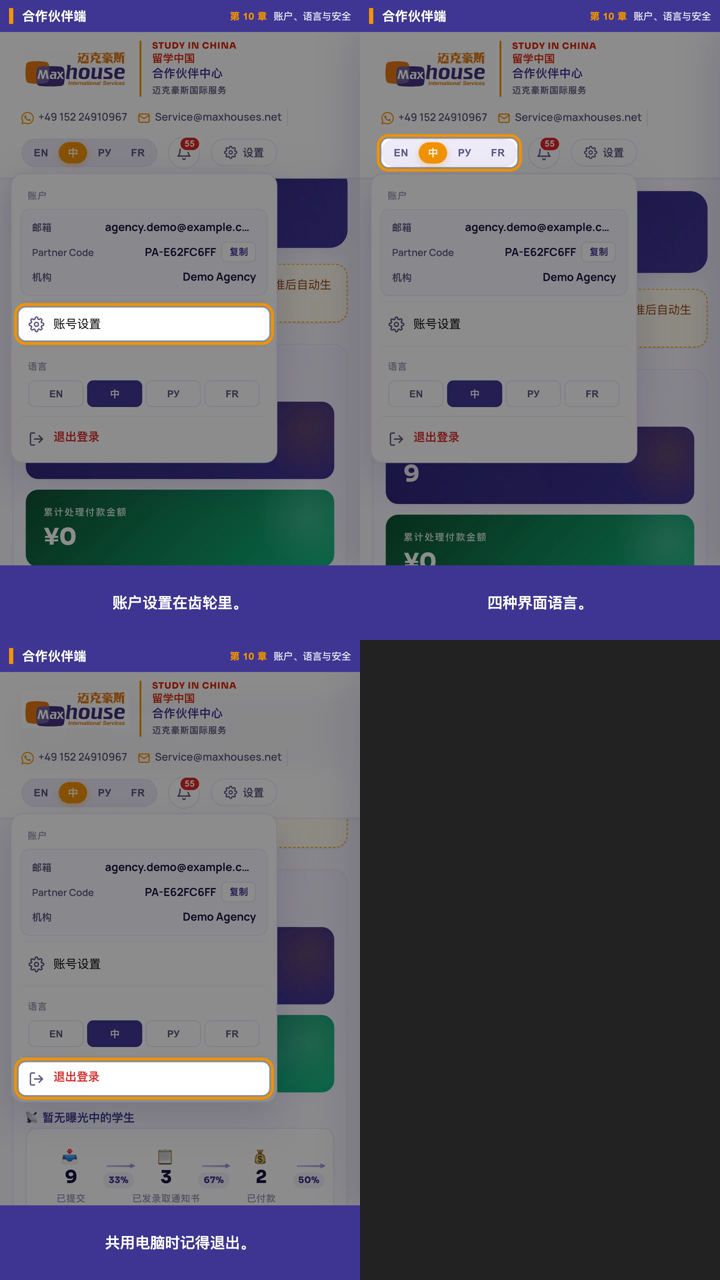
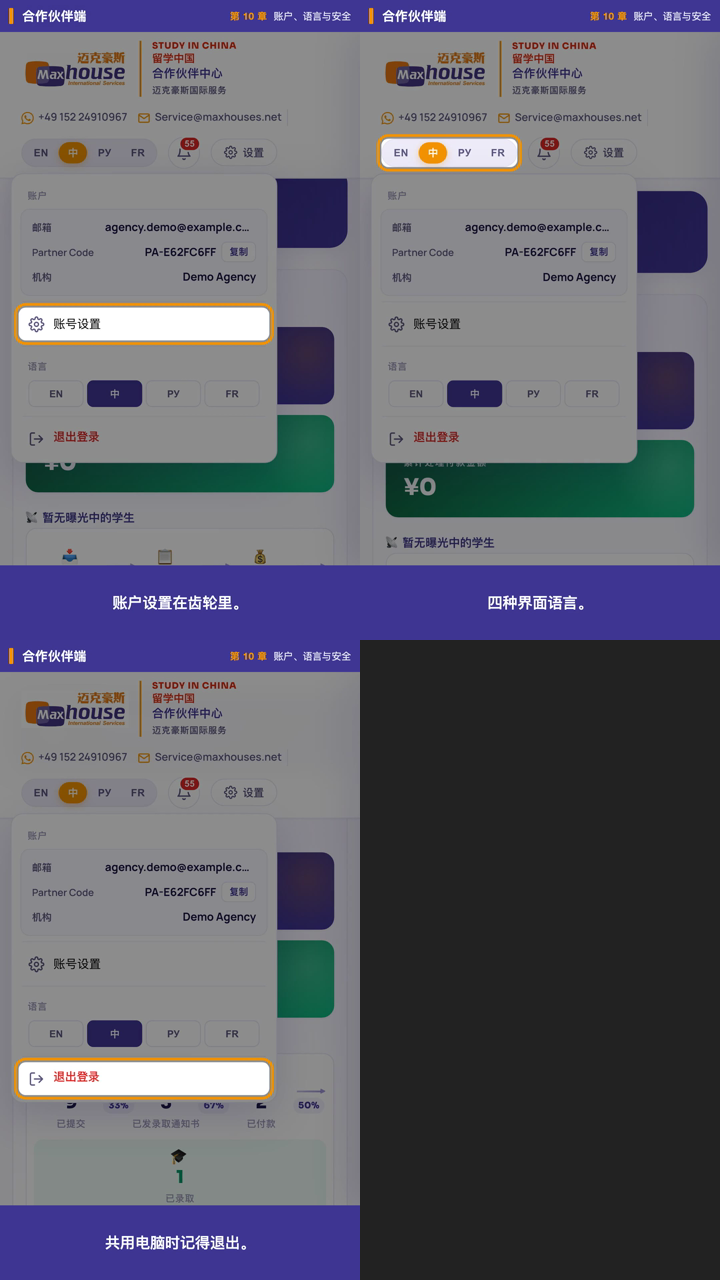
JOB-GP1 trip48: ch10 设置/语言/账户章（读-only）四语横竖 v185 定版重录——十章全部重录收尾。联络表 8 张（四语横竖）+ 4 REVIEW-shots 追加 ch10 节 + decisions D-48-1 + PROGRESS。开工+收工 verify 17/17 PASS；§四.5 scan ALL CLEAN；md5 dist vs _v2 全差异（真重录）。下趟＝OP-2~5 重做+四语全片/速览重拼+十一项重审。

diff --git a/JOB-GP1-03-PROGRESS.md b/JOB-GP1-03-PROGRESS.md
@@ -1,4 +1,6 @@
-最后一趟：2026-10-14 第47趟 第三轮返工（RULING-20261013b-video-only）：**做了＝第〇节代码核验（partner-portal 与线上一致·无 v186·diff 空·index 指 v185）+ ch9（增值服务章·读-only·零 DB 写）四语横竖 v185 定版重录，落 §三.10+§三.7+§一+§三.9**。ch9 字幕四语不改（review1/review2 未标 ch9 缺陷·§三.10 仅要求 v185 重录一次）。读-only：CONTEXT['9'] 把首张推荐生列表卡 `.partner-premium-block` 滚到视口中心（D-23-1 实证在列表卡非弹窗），逐镜高亮 9-1 增值服务标题/9-2 Audit ¥1,500 行/9-3 人工搜索 ¥600 行/9-4 付费曝光 从¥4,500 起行，全程零点击零写库。§三.7：照 ch6 读-only 先例，录前 st-ch8-quota-off 去「Quota raise pending 10→30」横幅、录后 st-ch8-quota-restore（verify#13 回 pending）；一次 off→录全 8 变体→一次 restore。§一：每张卡「Invested/该学生已投入/Вложено/Investi pour cet étudiant ¥0」无负数（亲帧 EN f30/zh f75/ru f30/fr f165），服务价 ¥1,500/¥600/¥4,500 均正数。§三.9：ru Центр партнёров/fr Espace partenaires（trip38 继承·成片帧亲验）。§四.4 N/A（程序扫 ch9 四语 captions 引号 0 命中·全描述性散文）。9-4 shot forbid 满足（四语无「优先审核」字样·亲帧 f165）。D-18-4：9-1/9-2/9-3 premium 动态串 ru/fr 英文回退照录不补·9-4 boost 行 ru/fr 本地化（fr「Boost de visibilité · inactif / Activer · dès ¥4,500」）·zh 全本地化。新建 rec/_runch9.sh/_prodch9.sh/_scan-ch9-forbidden.mjs。md5 比对 dist vs _v2 全差异（真重录）。开工+收工 verify 均 **17/17 PASS 0 FAIL**。§四.5 scan 四语×横竖 **ALL CLEAN**（beta/test/负数/真邮箱 0 命中）。亲帧+四语联络表逐镜复验：增值服务区高亮逐行推进、¥0 无负数、双盲守住（无校名）、Demo 生 Serikova Aizhan/Okoye Emeka 无真 PII、邮箱 agency.demo@example.com（no @gmail）、页头平台联系方式不遮（D-14-3/D-15-1）。时长 land en22.82/zh23.80/ru26.35/fr24.32·port en22.78/zh23.75/ru26.39/fr24.27。第二版 ch9 8 片 cp 到 _v2/ 留底（原无 ch9）·_v1 未动·dist 覆盖第三轮版（不入 git）。改了（主仓库点名 JOB-GP1 不推）：新增 rec/_runch9.sh/_prodch9.sh/_scan-ch9-forbidden.mjs、REVIEW-{en,zh,ru,fr}-shots.md 追加 ch9 节、DECISIONS.md(D-47-1)。无产品码/迁移/captions/shots-v1.json 改动。四语 ch9 联络表+4 REVIEW-shots+决定账+PROGRESS 推 mh-jobs。**下趟＝ch10（设置/语言/账户章·读-only·§三.10 照样 v185 重录一次）**。GP-1 第三轮返工未收官，后续 ch10→OP-2~5 重做+重拼+十一项重审→才重写 SUMMARY-GP1。
+最后一趟：2026-10-14 02:40 第48趟 第三轮返工（RULING-20261013b-video-only）：**做了＝第〇节代码核验（partner-portal 与线上一致·无 v186·diff 空·index 指 v185）+ ch10（设置/语言/账户章·读-only·零 DB 写）四语横竖 v185 定版重录，落 §三.10+§三.7+§一+§三.9——至此十章全部 v185 定版重录收尾**。ch10 字幕四语不改（review1/review2 未标 ch10 缺陷·§三.10 仅要求 v185 重录一次）。读-only：CONTEXT['10'] 仅 toggleSettingsMenu 开设置下拉菜单（不开 asModal·trip6 实证菜单内 Account settings/语言/Sign out 全可见），逐镜高亮 10-2 账户设置项/10-3 顶条 .lang-switcher 四语器/10-4 菜单内退出项，全程零点击提交零写库。§三.7（RULING 明列第 10 章顶部有「Quota raise pending 10→30」横幅）：设置菜单浮工作台之上露 hero→录前 st-ch8-quota-off 去横幅、录后 st-ch8-quota-restore（verify#13 回 pending）；读-only 一次 off→录全 8 变体→一次 restore。§一：hero「TOTAL PAYMENTS PROCESSED ¥0」无负数（四语横竖联络表亲帧）。§三.9：ru Центр партнёров/fr Espace partenaires（trip38 继承·land+port 实帧亲验本地化）。§四.4 N/A（ch10 四语字幕无引号引按钮名·全描述性散文；菜单项本身四语本地化）。D-18-4：ru/fr hero 动态 LL 串英文回退照录不补·菜单项（Настройки аккаунта/Выйти·Paramètres du compte/Se déconnecter）真本地化·zh 全中文。新建 rec/_runch10.sh/_prodch10.sh/_scan-ch10-forbidden.mjs。md5 比对 dist vs _v2 全差异（真重录）。开工+收工 verify 均 **17/17 PASS 0 FAIL**。§四.5 scan 四语×横竖 **ALL CLEAN**（beta/test/负数/真邮箱 0 命中）。亲帧+四语联络表逐镜复验：设置菜单三项高亮逐行、¥0 无负数、无提额横幅、无 beta、双盲守住、机构 Demo Agency 无真 PII、账户邮箱掩码 agency.demo@example.com（no @gmail）、Partner Code PA-E62FC6FF、页头平台 WhatsApp/Service@maxhouses.net 不遮（D-14-3/D-15-1）。时长 land en16.31/zh16.30/ru16.32/fr16.27·port en16.31/zh16.31/ru16.23/fr16.31。第二版 ch10 8 片 cp 到 _v2/ 留底（原无 ch10）·_v1 未动·dist 覆盖第三轮版（不入 git）。改了（主仓库点名 JOB-GP1 不推）：新增 rec/_runch10.sh/_prodch10.sh/_scan-ch10-forbidden.mjs、REVIEW-{en,zh,ru,fr}-shots.md 追加 ch10 节+标 trip35 旧节已取代、DECISIONS.md(D-48-1)。无产品码/迁移/captions/shots-v1.json 改动。四语 ch10 联络表+4 REVIEW-shots+决定账+PROGRESS 推 mh-jobs。**下趟＝开场快剪 OP-2~5 用新素材重做（§三.11·仿 trip26/36）+ 四语全片/速览/分段全部重拼（速览当独立片查）**。GP-1 第三轮返工未收官，后续 OP 重做+重拼+四语十一项重审（§四.6）→才重写 SUMMARY-GP1。
+
+【上一趟（第47趟）首行存档】最后一趟：2026-10-14 第47趟 第三轮返工（RULING-20261013b-video-only）：**做了＝第〇节代码核验（partner-portal 与线上一致·无 v186·diff 空·index 指 v185）+ ch9（增值服务章·读-only·零 DB 写）四语横竖 v185 定版重录，落 §三.10+§三.7+§一+§三.9**。ch9 字幕四语不改（review1/review2 未标 ch9 缺陷·§三.10 仅要求 v185 重录一次）。读-only：CONTEXT['9'] 把首张推荐生列表卡 `.partner-premium-block` 滚到视口中心（D-23-1 实证在列表卡非弹窗），逐镜高亮 9-1 增值服务标题/9-2 Audit ¥1,500 行/9-3 人工搜索 ¥600 行/9-4 付费曝光 从¥4,500 起行，全程零点击零写库。§三.7：照 ch6 读-only 先例，录前 st-ch8-quota-off 去「Quota raise pending 10→30」横幅、录后 st-ch8-quota-restore（verify#13 回 pending）；一次 off→录全 8 变体→一次 restore。§一：每张卡「Invested/该学生已投入/Вложено/Investi pour cet étudiant ¥0」无负数（亲帧 EN f30/zh f75/ru f30/fr f165），服务价 ¥1,500/¥600/¥4,500 均正数。§三.9：ru Центр партнёров/fr Espace partenaires（trip38 继承·成片帧亲验）。§四.4 N/A（程序扫 ch9 四语 captions 引号 0 命中·全描述性散文）。9-4 shot forbid 满足（四语无「优先审核」字样·亲帧 f165）。D-18-4：9-1/9-2/9-3 premium 动态串 ru/fr 英文回退照录不补·9-4 boost 行 ru/fr 本地化（fr「Boost de visibilité · inactif / Activer · dès ¥4,500」）·zh 全本地化。新建 rec/_runch9.sh/_prodch9.sh/_scan-ch9-forbidden.mjs。md5 比对 dist vs _v2 全差异（真重录）。开工+收工 verify 均 **17/17 PASS 0 FAIL**。§四.5 scan 四语×横竖 **ALL CLEAN**（beta/test/负数/真邮箱 0 命中）。亲帧+四语联络表逐镜复验：增值服务区高亮逐行推进、¥0 无负数、双盲守住（无校名）、Demo 生 Serikova Aizhan/Okoye Emeka 无真 PII、邮箱 agency.demo@example.com（no @gmail）、页头平台联系方式不遮（D-14-3/D-15-1）。时长 land en22.82/zh23.80/ru26.35/fr24.32·port en22.78/zh23.75/ru26.39/fr24.27。第二版 ch9 8 片 cp 到 _v2/ 留底（原无 ch9）·_v1 未动·dist 覆盖第三轮版（不入 git）。改了（主仓库点名 JOB-GP1 不推）：新增 rec/_runch9.sh/_prodch9.sh/_scan-ch9-forbidden.mjs、REVIEW-{en,zh,ru,fr}-shots.md 追加 ch9 节、DECISIONS.md(D-47-1)。无产品码/迁移/captions/shots-v1.json 改动。四语 ch9 联络表+4 REVIEW-shots+决定账+PROGRESS 推 mh-jobs。**下趟＝ch10（设置/语言/账户章·读-only·§三.10 照样 v185 重录一次）**。GP-1 第三轮返工未收官，后续 ch10→OP-2~5 重做+重拼+十一项重审→才重写 SUMMARY-GP1。
 
 【上一趟（第46趟）首行存档】最后一趟：2026-10-14 第46趟 第三轮返工（RULING-20261013b-video-only）：**做了＝第〇节代码核验（partner-portal 与线上一致·无 v186·diff 空·index 指 v185）+ ch8（名额与提额章·§三.7 照 D-32-1·读-only 零 DB 写）四语横竖 v185 定版重录，落 §三.7+§一+§三.9+§三.10**。ch8 字幕四语不改（trip32 已 bank）。零写库：8-1 读统计卡；8-2/8-3 调产品 _qrOpenRaise 开弹窗填 30+理由不提交；8-4 调产品自身 _qrApplyBanner 喂样例渲染真绿条（§8 先例·不写库）。§三.7：录前 st-ch8-quota-off 去 amber「Quota raise pending 10→30」横幅（pending→approved·decided_at NULL·referral_quota 不动）、录后 st-ch8-quota-restore（verify#13 回 pending）；读-only 一次 off→录全 8 变体→一次 restore。§一：工作台「TOTAL PAYMENTS PROCESSED ¥0」无负数（亲帧 EN land 8-1 f15/8-4 f157）。§三.9：ru Центр партнёров/fr Espace partenaires（trip38 继承）。§四.4 N/A（ch8 字幕无引号引按钮名）。新建 rec/_runch8.sh（dbrun 用 local out 避 trip45 orient 污染）/_prodch8.sh/_scan-ch8-forbidden.mjs。ru-land 首轮 0 帧偶发→单独重录 182 帧过。md5 比对 dist vs _v2 全差异（真重录非 stale）。开工+收工 verify 均 **17/17 PASS 0 FAIL**。§四.5 scan 四语×横竖 **ALL CLEAN**（beta/test/负数/真邮箱 0 命中）。亲帧+四语联络表逐镜复验：9 学生/提额弹窗/填 30+理由/产品绿条已批 30 席；无 beta、¥0 无负数、双盲守住、Demo Agency 无真 PII、邮箱 agency.demo@example.com（no @gmail）、页头平台联系方式不遮（D-14-3/D-15-1）、俄法弹窗/绿条 EN 回退 D-18-4 照录（zh 弹窗全中文）。时长 land en30.14/zh28.20/ru30.82/fr31.78·port en30.09/zh28.24/ru30.75/fr31.79。第二版 ch8 8 片 cp 到 _v2/ 留底（原无 ch8）·_v1 未动·dist 覆盖第三轮版（不入 git）。改了（主仓库点名 JOB-GP1 不推）：新增 rec/_runch8.sh/_prodch8.sh/_scan-ch8-forbidden.mjs、REVIEW-{en,zh,ru,fr}-shots.md 追加 ch8 节、DECISIONS.md(D-46-1)。无产品码/迁移/captions/shots-v1.json 改动。四语 ch8 联络表+4 REVIEW-shots+决定账+PROGRESS 推 mh-jobs。**下趟＝ch9（增值服务章·读-only·§三.10 照样 v185 重录一次）**。GP-1 第三轮返工未收官，后续 ch9→ch10→OP-2~5 重做+重拼+十一项重审→才重写 SUMMARY-GP1。
 

diff --git a/JOB-GP1-REVIEW-en-shots.md b/JOB-GP1-REVIEW-en-shots.md
@@ -186,6 +186,7 @@ RULING-20261013b §三.1 复核第二版查出：**2-3** 原来框的是 `.partn
 - 记账：录前 apply `st-pt03-reupload`（新建 transcript v2）、录后 `st-pt03-reupload-reset-cleanup` 删 v2 回退态；开工+收工 verify **17/17 PASS 0 FAIL**，baseline 守住（scoped 复位，无全量 rebuild）。ch5 v1 在 `_v1/` 留底、dist 覆盖为定版 v2。全片不重拼（待全部工作台章完后统一拼）。
 
 ## ch10 §一（设置章·读-only·v185 工作台背景定版重录，返工第35趟 2026-10-13）
+> ⚠ **本节（含下表 10-2/10-3/10-4 三行）已被第 48 趟（第三轮返工 RULING-20261013b §三.10）取代**——第二版（trip35）虽已换 v185 底座重录，但第三轮裁决要求十章全部用 v185 定版重录一次、不沿用任何旧录像，并补 §三.7 去提额横幅 + §三.9 俄法章节条实帧复验；见文末「ch10 §三.10」节。
 ch10＝设置章（账户/语言/退出），3 镜 10-2/10-3/10-4，全程在已登录 hub 上高亮设置菜单项·读-only·零写库·无弹窗置态。review1 未标 ch10 任何字幕缺陷→字幕/高亮一字未动；review1 §一列 ch10 为「背景含工作台数字」章，v184 缓存帧 hero 有负数/漏斗（缺陷1/2），v185 漏斗修复上线后（RULING-e）须 v185 重录使背景数字落定版。本趟纯换录制底座 v184→v185 重录 ch10 3 镜 × 四语 × 横竖＝8 片覆盖 dist。
 
 | 镜 | 字幕原文 | 高亮区 DOM 实际文字（从 v185 真帧 DOM 读） | 同一件事？ |
@@ -364,3 +365,24 @@ ch9＝增值服务章（Optional / value-added services）。**读-only·零 DB 
 - 亲帧复验：EN land 9-1(f30 PREMIUM SERVICES 框·Invested ¥0·无横幅)/9-2(f75 Audit ¥1,500)/9-4(f165 Exposure boost ¥4,500)；zh land f75(增值服务/Audit 服务 激活 ¥1,500·该学生已投入 ¥0·章节条 合作伙伴中心)、ru land f30(章节条 Центр партнёров·Вложено в студента ¥0·PREMIUM/Audit/Human-assisted EN 回退 D-18-4)；联络表四语逐镜复验。Demo 生 Serikova Aizhan / Okoye Emeka 无真 PII、双盲守住（无校名）。
 - 时长（最终成片，秒）：land en 22.82 / zh 23.80 / ru 26.35 / fr 24.32；port en 22.78 / zh 23.75 / ru 26.39 / fr 24.27。8 片全 res OK + audio yes + 4 镜 box 全 resolve。
 - 联络表（四语全部用本趟最终成片重生成）：`~/mh-jobs/shots/GP1/<lang>/ch9-contact-{land,port}-<lang>.png`（逐镜字幕中点）。
+
+## ch10 §三.10（+§三.7+§一+§三.9）（第三轮返工 · RULING-20261013b，第48趟 2026-10-14 · v185 定版重录·设置/语言/账户章·读-only·十章重录收尾）
+ch10＝设置/语言/账户章（Account, language & security），3 镜 10-2/10-3/10-4。**读-only·零 DB 写**：CONTEXT['10'] 仅 `toggleSettingsMenu` 开设置下拉菜单（不开 asModal，使 Account settings/语言/Sign out 全程在菜单内可见），逐镜高亮菜单项 / 顶条语言切换器，全程零点击提交、零写库。字幕四语未改（review1/review2 未标 ch10 任何镜级缺陷；§三.10 仅要求 v185 定版重录一次）。ch10 是第十章，本趟即十章全部 v185 定版重录收尾。
+- **§三.10（定版重录·本趟目的）**：ch10 整章四语横竖 8 片用 v185 重录→`_prodch10.sh` 合成覆盖 dist→`gp1-finish --stage contact --chapter 10` 四语联络表。md5 比对 dist vs `_v2/` 8 片全差异（真重录非 stale；覆盖前先 cp 第二版 8 片入 `_v2/`，_v2 原无 ch10）。
+- **§三.7（提额横幅·RULING 明列第 10 章顶部有「Quota raise pending 10→30」横幅）**：设置菜单浮在工作台之上、露 hero 顶部。录前 `st-ch8-quota-off`（quota_requests 单列 pending→approved·decided_at 保持 NULL→产品清横幅）、录后 `st-ch8-quota-restore`（收工 verify#13 回 pending）。读-only：一次 off→录全 8 变体→一次 restore。亲帧四语横竖联络表 header 与 hero 间**无 amber 提额横幅**。
+- **§一（负数销账）**：背景 hero「TOTAL PAYMENTS PROCESSED ¥0」无负数（亲帧四语横竖联络表）、「STUDENTS SUBMITTED 9」；§四.5 in-frame 扫描四语横竖负数全 CLEAN。
+- **§三.9**：ru 章节条「Центр партнёров」/fr「Espace partenaires」（trip38 overlay 继承·本趟联络表实帧亲验 land+port 均已本地化）；zh「合作伙伴端」/en「Partner Hub」不动。
+- **§四.4（引用按钮名逐字）N/A**：ch10 四语字幕均未用引号（" " / 「」/ « »）引界面按钮或标签名——全为描述性散文（"under the gear" / "Four interface languages" 等无引号），无逐字比对对象。
+
+| 镜 | 字幕原文（EN·不改） | 字幕中点画面高亮区实际文字（成片实帧肉眼读） | 同一件事？ |
+|----|------------------------|------------------------------------------------|-----------|
+| 10-2 | Account settings live under the gear. | `#settingsMenu [onclick*="openAccountSettings"]`「⚙ Account settings」橙环框（设置下拉 ACCOUNT 区·齿轮项） | 是 |
+| 10-3 | Four interface languages. | 顶条 `.lang-switcher`「EN · 中 · РУ · FR」四语切换按钮组橙环框 | 是 |
+| 10-4 | Sign out when you share a computer. | `#settingsMenu [onclick*="settingsSignOut"]`「⟶ Sign out」橙环框（设置下拉底部红色退出项） | 是 |
+
+- §四.2：10-2/10-3/10-4 高亮均在打开的设置菜单内（10-3 在顶条语言器），全程≥90% 可见、dwell≥70%；box 三镜全 resolve（land 705×93 / 383×80 / 705×93；port 752×99 / 408×85 / 752×99）。
+- §四.5 整镜扫描（in-frame·MASK+HIDE 复现录制层·`_scan-ch10-forbidden.mjs`·4 语×2 视口）：**ALL CLEAN**——beta/placeholder/test/内测/测试 0 命中、负数 0 命中、真邮箱 0 命中（账户邮箱 @gmail MASK→agency.demo@example.com）。页头平台 WhatsApp/Service@maxhouses.net 不遮（D-14-3/D-15-1）。
+- 亲帧复验（四语 land+port 联络表逐镜）：设置菜单 ACCOUNT 区邮箱掩码 `agency.demo@example.c…`、Partner Code PA-E62FC6FF、Agency Demo Agency（无真 PII）；三项高亮逐镜对账全「是」；¥0 无负数、无提额横幅、无 beta/内测/test；ru/fr 菜单项真本地化（Настройки аккаунта/Выйти · Paramètres du compte/Se déconnecter，非 EN 回退）、zh 全中文（账户设置/退出登录）；hero「Your referral performance」等动态 LL 串在 ru/fr 仍 EN 回退（D-18-4 照录不补）。
+- 时长（最终成片，秒）：land en 16.31 / zh 16.30 / ru 16.32 / fr 16.27；port en 16.31 / zh 16.31 / ru 16.23 / fr 16.31。8 片全 res OK + audio yes + 3 镜 box 全 resolve、全片 no @gmail。
+- 记账：ch10 读-only，开工+收工 verify **17/17 PASS 0 FAIL**，baseline 全程守住（零置态/零写库·scoped quota off→restore）。ch10 v1 在 `_v1/` 留底、v2 在 `_v2/` 留底、dist 覆盖为第三轮定版。全片不重拼（待 OP 快剪重做后统一重拼）。
+- 联络表（四语全部用本趟最终成片重生成）：`~/mh-jobs/shots/GP1/<lang>/ch10-contact-{land,port}-<lang>.png`。

diff --git a/JOB-GP1-REVIEW-ru-shots.md b/JOB-GP1-REVIEW-ru-shots.md
@@ -136,6 +136,7 @@ trip23 字幕/高亮照旧正确，本趟只换录制底座 v184→v185 重录 c
 - 记账：录前 apply `st-pt03-reupload`（新建 transcript v2）、录后 `st-pt03-reupload-reset-cleanup` 删 v2 回退态；开工+收工 verify **17/17 PASS 0 FAIL**，baseline 守住（scoped 复位，无全量 rebuild）。ch5 v1 在 `_v1/` 留底、dist 覆盖为定版 v2。全片不重拼（待全部工作台章完后统一拼）。
 
 ## ch10 §一（设置章·读-only·v185 工作台背景定版重录，返工第35趟 2026-10-13）
+> ⚠ **本节（含下表 10-2/10-3/10-4 三行）已被第 48 趟（第三轮返工 RULING-20261013b §三.10）取代**——第二版（trip35）虽已换 v185 底座重录，但第三轮裁决要求十章全部用 v185 定版重录一次、不沿用任何旧录像，并补 §三.7 去提额横幅 + §三.9 俄法章节条实帧复验；见文末「ch10 §三.10」节。
 ch10＝设置章（账户/语言/退出），3 镜 10-2/10-3/10-4，全程在已登录 hub 上高亮设置菜单项·读-only·零写库。review1 未标 ch10 字幕缺陷→字幕/高亮一字未动；本趟纯换录制底座 v184→v185 重录使背景数字落定版。RU UI 高亮目标全本地化（Настройки аккаунта / Выйти）、章节条「Глава 10 · Аккаунт, язык, безопасность」；页头 D-18-5 保留「Partner Hub」。hero 卡标签/提额横幅为产品 LL 动态串英文回退（D-18-4 照录，入 SUMMARY），与 ch1/ch9 同背景、非本趟引入。
 
 | 镜 | 字幕原文 | 高亮区 DOM 实际文字（从 v185 真帧 DOM 读） | 同一件事？ |
@@ -293,3 +294,24 @@ ch9＝增值服务章（Дополнительные услуги / value-added 
 - 亲帧复验：ru land f30（章节条 Центр партнёров·Вложено в студента ¥0·PREMIUM/Audit/Human-assisted EN 回退 D-18-4·付费曝光行 ru 本地化）；EN/zh/fr 联络表逐镜复验。Demo 生无真 PII、双盲守住。
 - 时长（最终成片，秒）：land ru 26.35（en 22.82 / zh 23.80 / fr 24.32）；port ru 26.39（en 22.78 / zh 23.75 / fr 24.27）。8 片全 res OK + audio yes + 4 镜 box 全 resolve。
 - 联络表（四语全部用本趟最终成片重生成）：`~/mh-jobs/shots/GP1/ru/ch9-contact-{land,port}-ru.png`。
+
+## ch10 §三.10（+§三.7+§一+§三.9）（第三轮返工 · RULING-20261013b，第48趟 2026-10-14 · v185 定版重录·设置/语言/账户章·读-only·十章重录收尾）
+ch10＝设置/语言/账户章，3 镜 10-2/10-3/10-4。**读-only·零 DB 写**：CONTEXT['10'] 仅 `toggleSettingsMenu` 开设置下拉菜单（不开 asModal），逐镜高亮菜单项 / 顶条语言切换器，全程零点击提交、零写库。字幕四语未改（review1/review2 未标 ch10 任何镜级缺陷；§三.10 仅要求 v185 定版重录一次）。ch10 是第十章，本趟即十章全部 v185 定版重录收尾。RU 菜单项全本地化（Настройки аккаунта / Выйти）、章节条「Глава 10 · Аккаунт, язык, безопасность」。
+- **§三.10（定版重录·本趟目的）**：ch10 整章四语横竖 8 片用 v185 重录→`_prodch10.sh` 合成覆盖 dist→四语联络表。md5 比对 dist vs `_v2/` 8 片全差异（真重录；覆盖前先 cp 第二版 8 片入 `_v2/`，_v2 原无 ch10）。
+- **§三.7（提额横幅）**：设置菜单浮在工作台之上·露 hero 顶部。录前 `st-ch8-quota-off` 去横幅、录后 `st-ch8-quota-restore`（收工 verify#13 回 pending）；读-only 一次 off→录全 8 变体→一次 restore。亲帧 ru land+port 联络表 header 与 hero 间无 amber 提额横幅。
+- **§一（负数销账）**：背景 hero「TOTAL PAYMENTS PROCESSED ¥0」无负数（ru hero 卡标签为 LL 动态串英文回退 D-18-4，¥0 数值正常）；§四.5 in-frame 扫描四语横竖负数全 CLEAN。
+- **§三.9**：ru 章节条「Центр партнёров」（trip38 继承·本趟 land+port 联络表实帧亲验已本地化）；fr「Espace partenaires」、zh「合作伙伴端」、en「Partner Hub」各自另见。
+- **§四.4 N/A**：ch10 ru 字幕（Настройки аккаунта — под значком шестерёнки. / Четыре языка интерфейса. / Выходите из аккаунта, если компьютер общий.）均未用引号引界面按钮名——描述性散文，无逐字比对对象；高亮框住的菜单项 Настройки аккаунта / Выйти 本身即 RU 本地化，与叙述一致。
+
+| 镜 | 字幕原文（俄·不改） | 字幕中点画面高亮区实际文字（成片实帧肉眼读） | 同一件事？ |
+|----|------------------------|------------------------------------------------|-----------|
+| 10-2 | Настройки аккаунта — под значком шестерёнки. | `#settingsMenu [onclick*="openAccountSettings"]`「⚙ Настройки аккаунта」橙环框（设置下拉 账户 区·齿轮项·RU 本地化） | 是 |
+| 10-3 | Четыре языка интерфейса. | 顶条 `.lang-switcher`「EN · 中 · РУ · FR」四语切换按钮组橙环框 | 是 |
+| 10-4 | Выходите из аккаунта, если компьютер общий. | `#settingsMenu [onclick*="settingsSignOut"]`「⟶ Выйти」橙环框（设置下拉底部红色退出项·RU 本地化） | 是 |
+
+- §四.2：10-2/10-3/10-4 高亮均在打开的设置菜单内（10-3 在顶条语言器），全程≥90% 可见、dwell≥70%；box 三镜全 resolve（land 705×93 / 383×80 / 705×93；port 752×99 / 408×85 / 752×99）。
+- §四.5 整镜扫描（in-frame·`_scan-ch10-forbidden.mjs`·4 语×2 视口）：**ALL CLEAN**——beta/placeholder/test/内测/测试 0 命中、负数 0 命中、真邮箱 0 命中（账户邮箱 @gmail MASK→agency.demo@example.com）。页头平台联系方式不遮（D-14-3/D-15-1）。
+- 亲帧复验（ru land+port 联络表逐镜）：设置菜单账户区（ЭЛ. ПОЧТА 掩码邮箱、Partner Code PA-E62FC6FF、Agency Demo Agency 无真 PII、Копировать RU 本地化）；三项高亮逐镜对账全「是」；¥0 无负数、无提额横幅、无 beta；菜单项 Настройки аккаунта/Выйти 真本地化、hero 动态 LL 串仍 EN 回退（D-18-4 照录不补）。
+- 时长（最终成片，秒）：land ru 16.32（en 16.31 / zh 16.30 / fr 16.27）；port ru 16.23（en 16.31 / zh 16.31 / fr 16.31）。8 片全 res OK + audio yes + 3 镜 box 全 resolve、全片 no @gmail。
+- 记账：ch10 读-only，开工+收工 verify **17/17 PASS 0 FAIL**，baseline 全程守住。ch10 v1 在 `_v1/`、v2 在 `_v2/` 留底、dist 覆盖第三轮定版。全片待 OP 重做后统一重拼。
+- 联络表：`~/mh-jobs/shots/GP1/ru/ch10-contact-{land,port}-ru.png`。

diff --git a/JOB-GP1-REVIEW-zh-shots.md b/JOB-GP1-REVIEW-zh-shots.md
@@ -144,6 +144,7 @@ trip23 字幕/高亮照旧正确，本趟只换录制底座 v184→v185 重录 c
 - 记账：录前 apply `st-pt03-reupload`（新建 transcript v2）、录后 `st-pt03-reupload-reset-cleanup` 删 v2 回退态；开工+收工 verify **17/17 PASS 0 FAIL**，baseline 守住（scoped 复位，无全量 rebuild）。ch5 v1 在 `_v1/` 留底、dist 覆盖为定版 v2。全片不重拼（待全部工作台章完后统一拼）。
 
 ## ch10 §一（设置章·读-only·v185 工作台背景定版重录，返工第35趟 2026-10-13）
+> ⚠ **本节（含下表 10-2/10-3/10-4 三行）已被第 48 趟（第三轮返工 RULING-20261013b §三.10）取代**——第二版（trip35）虽已换 v185 底座重录，但第三轮裁决要求十章全部用 v185 定版重录一次、不沿用任何旧录像，并补 §三.7 去提额横幅 + §三.9 俄法章节条实帧复验；见文末「ch10 §三.10」节。
 ch10＝设置章（账户/语言/退出），3 镜 10-2/10-3/10-4，全程在已登录 hub 上高亮设置菜单项·读-only·零写库·无弹窗置态。review1 未标 ch10 任何字幕缺陷→字幕/高亮一字未动；review1 §一列 ch10 为「背景含工作台数字」章，v184 缓存帧 hero 有负数/漏斗，v185 漏斗修复上线后须 v185 重录使背景数字落定版。本趟纯换录制底座 v184→v185 重录 ch10 3 镜 × 四语 × 横竖＝8 片覆盖 dist。中文 UI 全本地化（账户设置/退出登录/章节条「第 10 章 · 账户、语言、安全」）。
 
 | 镜 | 字幕原文 | 高亮区 DOM 实际文字（从 v185 真帧 DOM 读） | 同一件事？ |
@@ -301,3 +302,24 @@ ch9＝增值服务章（增值服务 / value-added services）。**读-only·零
 - 亲帧复验：zh land f75（增值服务/Audit 服务 激活 ¥1,500·该学生已投入 ¥0·章节条 合作伙伴中心）；EN/ru/fr 联络表逐镜复验。Demo 生 Serikova Aizhan / Okoye Emeka 无真 PII、双盲守住（无校名）。
 - 时长（最终成片，秒）：land zh 23.80（en 22.82 / ru 26.35 / fr 24.32）；port zh 23.75（en 22.78 / ru 26.39 / fr 24.27）。8 片全 res OK + audio yes + 4 镜 box 全 resolve。
 - 联络表（四语全部用本趟最终成片重生成）：`~/mh-jobs/shots/GP1/zh/ch9-contact-{land,port}-zh.png`。
+
+## ch10 §三.10（+§三.7+§一+§三.9）（第三轮返工 · RULING-20261013b，第48趟 2026-10-14 · v185 定版重录·设置/语言/账户章·读-only·十章重录收尾）
+ch10＝设置/语言/账户章，3 镜 10-2/10-3/10-4。**读-only·零 DB 写**：CONTEXT['10'] 仅 `toggleSettingsMenu` 开设置下拉菜单（不开 asModal），逐镜高亮菜单项 / 顶条语言切换器，全程零点击提交、零写库。字幕四语未改（review1/review2 未标 ch10 任何镜级缺陷；§三.10 仅要求 v185 定版重录一次）。ch10 是第十章，本趟即十章全部 v185 定版重录收尾。中文 UI 全本地化（账户设置/退出登录/章节条「第 10 章 · 账户、语言、安全」）。
+- **§三.10（定版重录·本趟目的）**：ch10 整章四语横竖 8 片用 v185 重录→`_prodch10.sh` 合成覆盖 dist→四语联络表。md5 比对 dist vs `_v2/` 8 片全差异（真重录；覆盖前先 cp 第二版 8 片入 `_v2/`，_v2 原无 ch10）。
+- **§三.7（提额横幅）**：设置菜单浮在工作台之上·露 hero 顶部。录前 `st-ch8-quota-off` 去横幅、录后 `st-ch8-quota-restore`（收工 verify#13 回 pending）；读-only 一次 off→录全 8 变体→一次 restore。亲帧四语横竖联络表 header 与 hero 间无 amber 提额横幅。
+- **§一（负数销账）**：背景 hero「总处理付款 ¥0」无负数、「学生已提交 9」；§四.5 in-frame 扫描四语横竖负数全 CLEAN。
+- **§三.9**：ru 章节条「Центр партнёров」/fr「Espace partenaires」（trip38 继承·本趟联络表实帧亲验 land+port 均本地化）；zh「合作伙伴端」/en「Partner Hub」不动。
+- **§四.4 N/A**：ch10 四语字幕均未用引号引界面按钮名，无逐字比对对象。
+
+| 镜 | 字幕原文（中·不改） | 字幕中点画面高亮区实际文字（成片实帧肉眼读） | 同一件事？ |
+|----|------------------------|------------------------------------------------|-----------|
+| 10-2 | 账户设置在齿轮里。 | `#settingsMenu [onclick*="openAccountSettings"]`「⚙ 账户设置」橙环框（设置下拉 账户 区·齿轮项） | 是 |
+| 10-3 | 四种界面语言。 | 顶条 `.lang-switcher`「EN · 中 · РУ · FR」四语切换按钮组橙环框 | 是 |
+| 10-4 | 共用电脑时记得退出。 | `#settingsMenu [onclick*="settingsSignOut"]`「⟶ 退出登录」橙环框（设置下拉底部红色退出项） | 是 |
+
+- §四.2：10-2/10-3/10-4 高亮均在打开的设置菜单内（10-3 在顶条语言器），全程≥90% 可见、dwell≥70%；box 三镜全 resolve（land 705×93 / 383×80 / 705×93；port 752×99 / 408×85 / 752×99）。
+- §四.5 整镜扫描（in-frame·`_scan-ch10-forbidden.mjs`·4 语×2 视口）：**ALL CLEAN**——beta/placeholder/test/内测/测试 0 命中、负数 0 命中、真邮箱 0 命中（账户邮箱 @gmail MASK→agency.demo@example.com）。页头平台联系方式不遮（D-14-3/D-15-1）。
+- 亲帧复验（四语 land+port 联络表逐镜）：设置菜单账户区邮箱掩码、Partner Code PA-E62FC6FF、机构 Demo Agency 无真 PII；三项高亮逐镜对账全「是」；¥0 无负数、无提额横幅、无 beta/内测/test；zh 菜单项全中文（账户设置/退出登录）；ru/fr 菜单项真本地化、hero 动态 LL 串 ru/fr 仍 EN 回退（D-18-4 照录）。
+- 时长（最终成片，秒）：land zh 16.30（en 16.31 / ru 16.32 / fr 16.27）；port zh 16.31（en 16.31 / ru 16.23 / fr 16.31）。8 片全 res OK + audio yes + 3 镜 box 全 resolve、全片 no @gmail。
+- 记账：ch10 读-only，开工+收工 verify **17/17 PASS 0 FAIL**，baseline 全程守住。ch10 v1 在 `_v1/`、v2 在 `_v2/` 留底、dist 覆盖第三轮定版。全片待 OP 重做后统一重拼。
+- 联络表：`~/mh-jobs/shots/GP1/zh/ch10-contact-{land,port}-zh.png`。

diff --git a/JOB-GP1-decisions.md b/JOB-GP1-decisions.md
@@ -826,3 +826,20 @@
 - **留底（§三.12/点10）**：覆盖前已把第二版 ch9 8 片 cp 到 `guide/dist/partner/_v2/ch9-*.mp4`（同一文件只留一次，_v2 原无 ch9）；_v1 首版 ch9 未动；dist 覆盖为第三轮 v185 版。成片/voice 不入 git。
 - **改了**（主仓库，点名 JOB-GP1，不推）：新增 `rec/_runch9.sh`/`rec/_prodch9.sh`/`rec/_scan-ch9-forbidden.mjs`、`REVIEW-{en,zh,ru,fr}-shots.md`（追加 ch9 第三轮节）、`DECISIONS.md`（本条）。无产品码/迁移/captions/shots-v1.json 改动（ch9 字幕四语不变）。四语 ch9 联络表 + 4 REVIEW-shots + 决定账 + PROGRESS 推 mh-jobs。
 - **下趟**（§五 顺序）：ch10（设置/语言/账户章·读-only·§三.10 照样 v185 重录一次；10 已在 trip 序列·CONTEXT['10'] 开设置菜单不开 asModal）。**GP-1 第三轮返工未收官**，后续 ch10→OP-2~5 重做 + 四语全片/速览重拼 + 四语十一项重审 → 才重写 SUMMARY-GP1。
+
+## D-48-1 · ch10 设置/语言/账户章 §三.10 定版重录（读-only）+ §三.7 + §一 + §三.9（第48趟 2026-10-14 · RULING-20261013b-video-only · Mac mini 无人值守）· 十章重录收尾
+- **第〇节代码核验**：`git diff origin/main --stat -- partner-portal` 空、partner-portal 下无未跟踪文件、无 v186、index.html `url=./maxhouse-partner-portal-v185`→无需还原，本轮不改五端口代码（每趟复核在案）。
+- **开工 verify**：**17/17 PASS 0 FAIL**（#13 quota_request pending requested 30 基线在）。
+- **本趟＝ch10（设置/语言/账户章 Account, language & security·§三.10 定版重录·十章重录收尾）**：照 §三.10「十章全部 v185 重录·不沿用任何旧录像」对 ch10 整章四语横竖 8 片**重新录制**。ch10 是第十章，本趟即十章全部 v185 定版重录收尾。字幕四语不改（review1/review2 未标 ch10 任何镜级缺陷；§三.10 仅要求 v185 定版重录一次）。
+- **零 DB 写（读-only 章）**：CONTEXT['10'] 仅 `toggleSettingsMenu(new Event('click'))` 开设置下拉菜单（不开 asModal，使 Account settings/语言切换/Sign out 全程在菜单内可见，trip6 实证），逐镜高亮 10-2 账户设置项 / 10-3 顶条 `.lang-switcher` 四语器 / 10-4 菜单内退出项，全程零点击提交、零写库。照 ch6/ch9 读-only 工序：一次 `st-ch8-quota-off` → 录全 8 变体 → 一次 `st-ch8-quota-restore`。
+- **§三.7（提额横幅·RULING 明列第 10 章顶部有「Quota raise pending 10→30」横幅）**：设置菜单浮在工作台之上·露 hero 顶部。录前 `st-ch8-quota-off`（单列可逆 UPDATE pending→approved·decided_at NULL·referral_quota 不动→产品清横幅）、录后 `st-ch8-quota-restore` 还原 pending（收工 verify#13 回 pending）。亲帧四语横竖联络表 header 与 hero 间无 amber 提额横幅。
+- **§一（负数销账）**：背景 hero「TOTAL PAYMENTS PROCESSED ¥0」无负数（亲帧四语横竖联络表）；§四.5 in-frame 扫描四语横竖负数全 CLEAN。ru/fr hero 卡标签为产品 LL 动态串英文回退（D-18-4 照录·入 SUMMARY），¥0 数值正常，与 ch1/ch9 同背景、非本趟引入。
+- **§三.9（俄法章节条）**：ru 章节条「Центр партнёров」/fr「Espace partenaires」（trip38 gp1-overlays.mjs overlay 继承·本趟 land+port 联络表实帧亲验已本地化）；zh「合作伙伴端」/en「Partner Hub」不动。
+- **§四.4（引用按钮名逐字）N/A**：ch10 四语字幕均未用引号（" " / 「」/ « »）引界面按钮或标签名——全为描述性散文；高亮框住的菜单项（Account settings/账户设置/Настройки аккаунта/Paramètres du compte 及 Sign out/退出登录/Выйти/Se déconnecter）本身即对应语言本地化，与叙述一致。
+- **§四.2 高亮可见**：10-2/10-3/10-4 高亮均在打开的设置菜单内（10-3 在顶条语言器），全程≥90% 可见、dwell≥70%；box 三镜全 resolve（land 705×93 / 383×80 / 705×93；port 752×99 / 408×85 / 752×99）。
+- **§四.5 scan（`_scan-ch10-forbidden.mjs` 4 语×2 视口·CONTEXT 开设置菜单同录制态）**：**ALL CLEAN**——beta/placeholder/test/内测/测试 0 命中、负数 0 命中、真邮箱 0 命中（账户邮箱 @gmail 由 MASK_INIT→agency.demo@example.com）。页头平台 WhatsApp/Service@maxhouses.net 不遮（D-14-3/D-15-1）。
+- **真重录实证**：md5 比对 dist vs `_v2/` 8 片全差异（非 stale）；开工+收工 verify 均 17/17 PASS。时长（最终成片，秒）：land en 16.31/zh 16.30/ru 16.32/fr 16.27；port en 16.31/zh 16.31/ru 16.23/fr 16.31。8 片全 res OK + audio yes + 3 镜 box 全 resolve、全片 no @gmail。
+- **留底（§三.12/点10）**：覆盖前已把第二版 ch10 8 片 cp 到 `guide/dist/partner/_v2/ch10-*.mp4`（同一文件只留一次·_v2 原无 ch10）；_v1 首版 ch10 未动；dist 覆盖为第三轮 v185 版。成片/voice 不入 git。
+- **非四种停下情形**：全在成片/录制工装 + §三.7 授权置态范围，不碰端口码/迁移/共用组件、不越界、不碰 R2·CF、不推主仓库。
+- **改了**（主仓库，点名 JOB-GP1，不推）：新增 `rec/_runch10.sh`/`rec/_prodch10.sh`/`rec/_scan-ch10-forbidden.mjs`、`REVIEW-{en,zh,ru,fr}-shots.md`（追加 ch10 第三轮节 + 标注 trip35 旧节已取代）、`DECISIONS.md`（本条）。无产品码/迁移/captions/shots-v1.json 改动（ch10 字幕四语不变）。四语 ch10 联络表 + 4 REVIEW-shots + 决定账 + PROGRESS 推 mh-jobs。
+- **下趟**（§五 顺序）：十章全部 v185 定版重录完毕 → 开场快剪 OP-2~5 用新素材重做（§三.11·仿 trip26/trip36）→ 四语全片/速览/分段全部重拼（速览当独立片查）→ 四语各过十一项重审（§四.6·联络表全用最终成片重生成）→ 才重写 `~/mh-jobs/SUMMARY-GP1.md`（首行 PUSH_OK=yes）。**GP-1 第三轮返工未收官**，仍不开始 GP-2（不传 R2、不动 Cloudflare、不推主仓库）。
